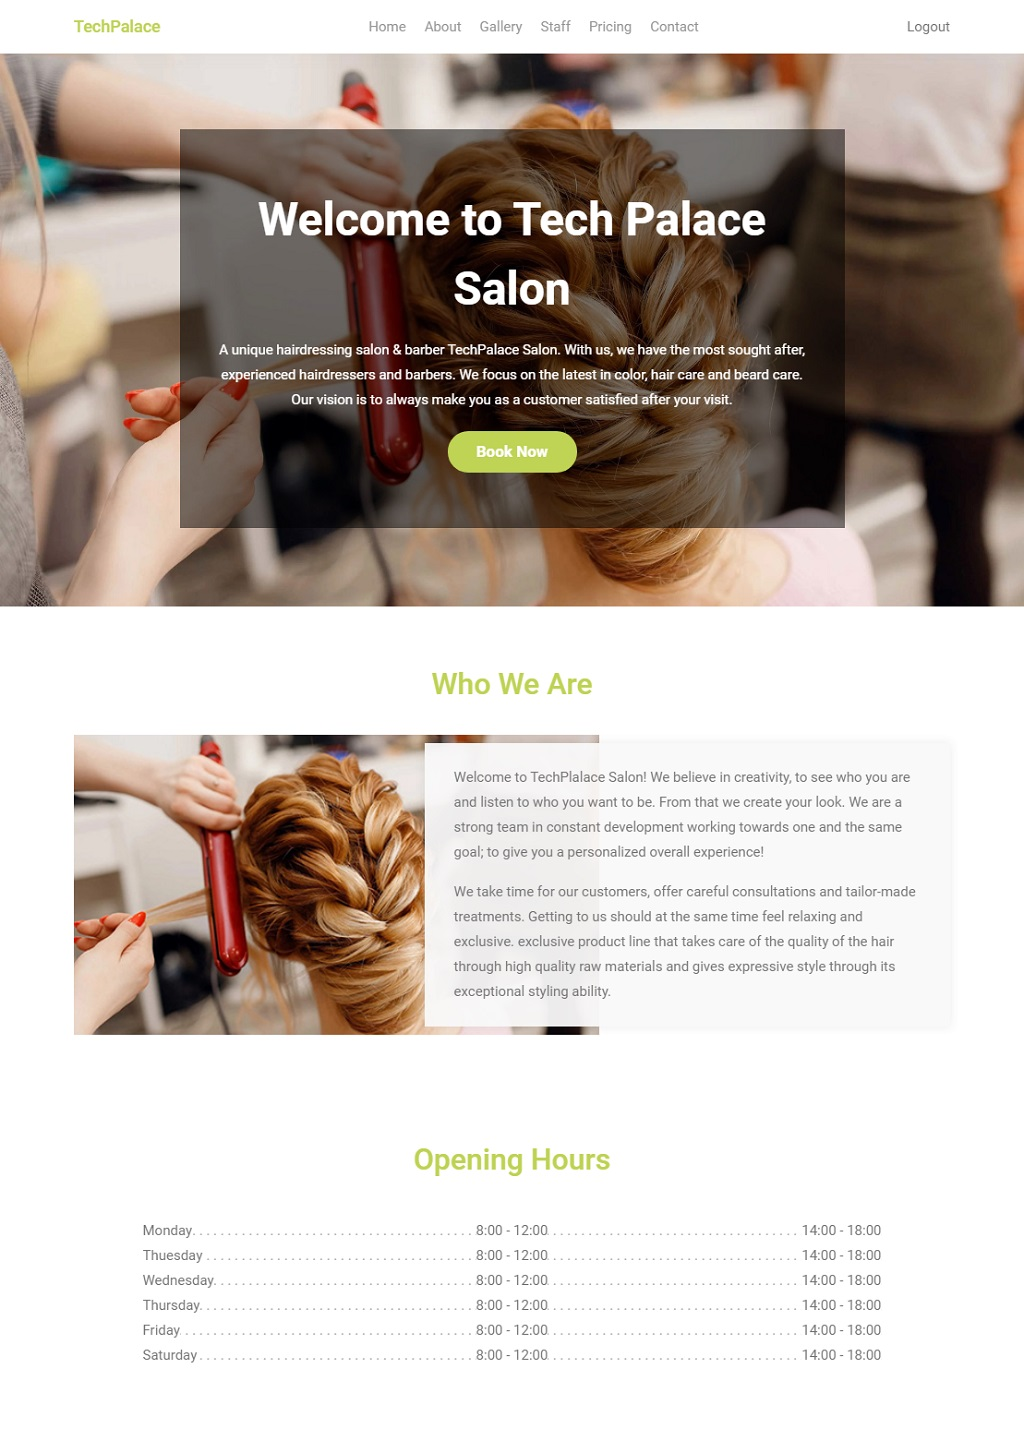
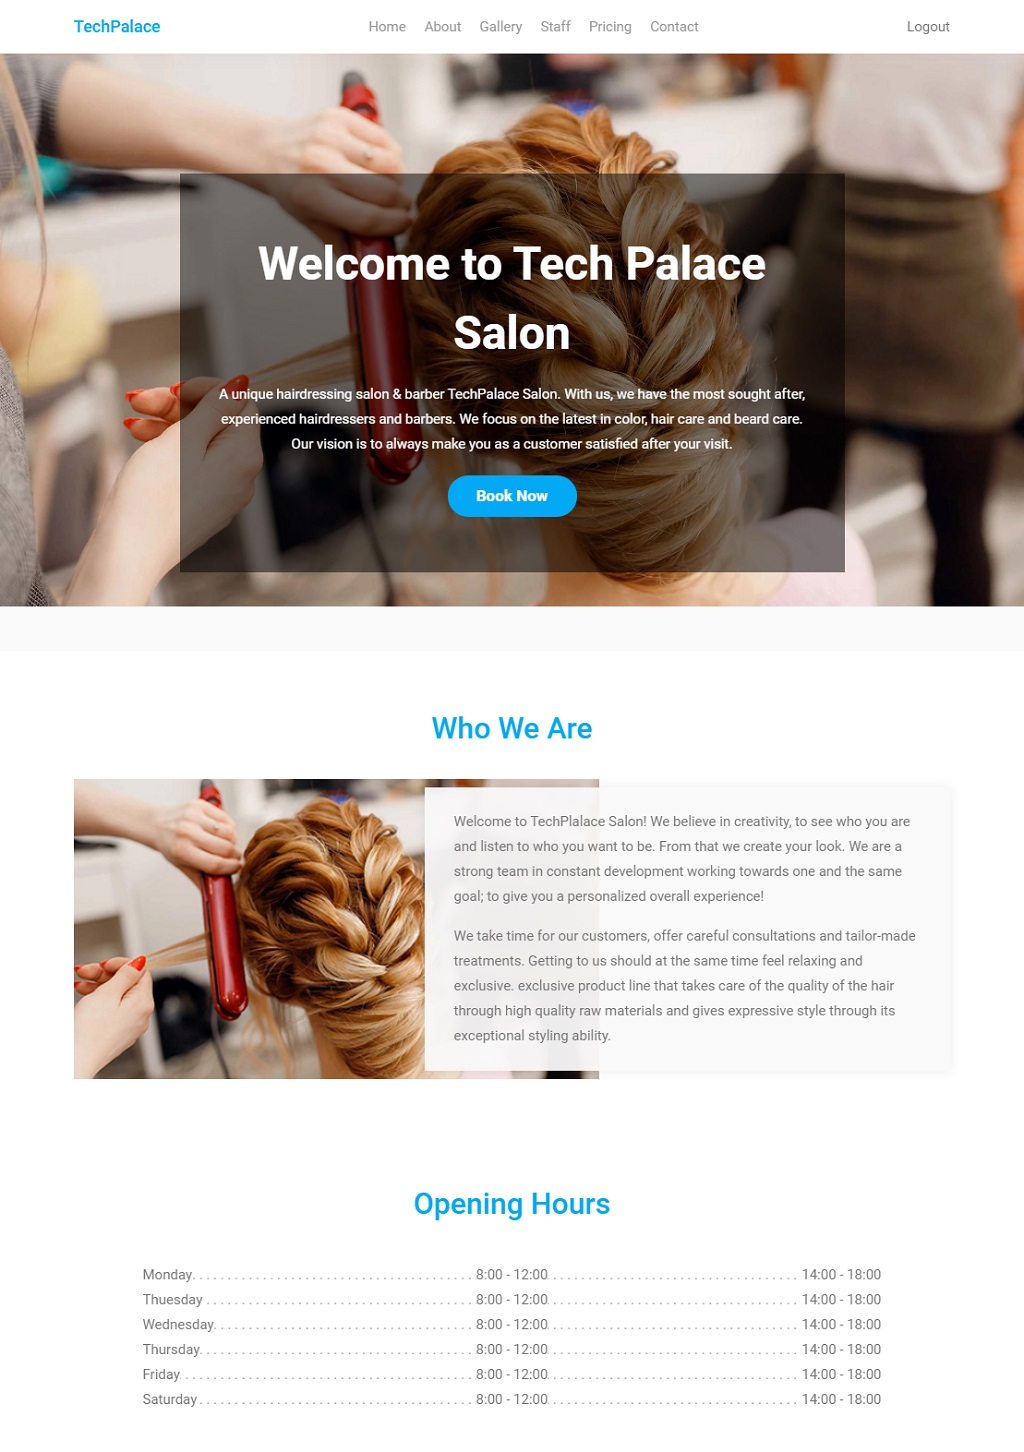
Adding update theme functionality and popup

diff --git a/src/components/landingpage/ColorBox.vue b/src/components/landingpage/ColorBox.vue
@@ -1,123 +1,158 @@
 <template>
   <div class="colorbox">
-    <div class="colorbox-toggle" @click="dialog = !dialog">
+    <div class="colorbox-toggle" @click="dialog.open = true">
       <i class="material-icons settings">settings</i>
     </div>
-    <v-dialog v-model="dialog" fullscreen hide-overlay transition="dialog-bottom-transition">
-      <template v-slot:activator="{ on }">
-        <v-btn color="primary" dark v-on="on">Open Dialog</v-btn>
-      </template>
-      <v-card>
-        <v-toolbar dark color="primary">
-          <v-btn icon dark @click="dialog = false">
-            <v-icon>close</v-icon>
-          </v-btn>
-          <v-toolbar-title>Settings</v-toolbar-title>
-          <v-spacer></v-spacer>
-          <v-toolbar-items>
-            <v-btn dark flat @click="updateTheme">Save</v-btn>
-          </v-toolbar-items>
-        </v-toolbar>
-        <v-list three-line subheader>
-          <v-subheader>Choose theme:</v-subheader>
-          <v-list-tile avatar>
-            <v-list-tile-content>
-              <v-list-tile-title>How that works?</v-list-tile-title>
-              <v-list-tile-sub-title>Choose one of the folllowing themes, then click save to apply the new theme!</v-list-tile-sub-title>
-            </v-list-tile-content>
-          </v-list-tile>
-
-          <div class="theme-preview">
-            <ul class="themes">
-              <li
-                v-for="(theme, index) in themes"
-                :key="index"
-                :style="{background: theme.color}"
-                @click="currentTheme = index + 1"
-              ></li>
-            </ul>
-            <img :src="'/img/theme' + currentTheme +'.jpg'" alt>
+    <div class="dialog" :class="dialog.open ? 'open': ''">
+      <header>
+        <div class="container">
+          <h2>Update Theme</h2>
+          <div class="controls">
+            <button class="btn" @click="updateTheme">Save</button>
+            <button class="btn" @click="dialog.open = false">Close</button>
           </div>
-        </v-list>
-      </v-card>
-    </v-dialog>
+        </div>
+      </header>
+      <div class="content">
+        <div class="theme-preview">
+          <p>Choose one of the following themes, then click save.</p>
+          <ul class="themes">
+            <li
+              v-for="(theme, index) in themes"
+              :key="index"
+              :style="{background: theme.color}"
+              @click="currentTheme = index + 1"
+            ></li>
+          </ul>
+          <img :src="'/img/theme' + currentTheme +'.jpg'" alt />
+        </div>
+      </div>
+    </div>
   </div>
 </template>
 
 <script>
 export default {
+  props: ['salon'],
   data() {
     return {
       themes: [
-        { id: 1, color: "#bfd354" },
-        { id: 2, color: "#8bc34a" },
-        { id: 3, color: "#4caf50" },
-        { id: 4, color: "#5ec0ea" },
-        { id: 5, color: "#03a9f4" },
-        { id: 6, color: "#3f51b5" },
-        { id: 7, color: "#673ab7" },
-        { id: 8, color: "#9c27b0" },
-        { id: 9, color: "#f44336" }
+        { id: 1, color: "#8bc34a" },
+        { id: 2, color: "#4caf50" },
+        { id: 3, color: "#2196f3" },
+        { id: 4, color: "#673ab7" },
+        { id: 5, color: "#9c27b0" },
+        { id: 6, color: "#f44336" }
       ],
       currentTheme: 1,
-      dialog: false,
+      dialog: {
+        open: false
+      },
       notifications: false,
       sound: true,
       widgets: false
     };
   },
   methods: {
-    updateTheme(){
-      const theme = this.currentTheme
+    async updateTheme() {
+      const theme = this.currentTheme;
       const salon = {
         frontend_opts: {
-          theme
+          theme: this.currentTheme,
+          heading: this.salon.frontend_opts.heading,
+          sub_heading: this.salon.frontend_opts.sub_heading,
+          about: this.salon.frontend_opts.about,
+          gallery_description: this.salon.frontend_opts.gallery_description,
+          logo: this.salon.frontend_opts.logo,
+          hasDomain: this.salon.frontend_opts.hasDomain,
+          createDomain: this.salon.frontend_opts.createDomain,
+          existingDomain: this.salon.frontend_opts.existingDomain,
+          desiredDomain: this.salon.frontend_opts.desiredDomain
         }
-      }
-      this.$store.dispatch('updateSalon', salon)
-      console.log(salon)
-      // dialog = false
+      };
+      await this.$store.dispatch("updateSalon", salon);
+      await this.$store.dispatch("getSalon");
+      this.dialog.open = false
     }
-  },
+  }
 };
 </script>
 
 <style lang="scss">
 @import "@/assets/scss/_variables.scss";
-.colorbox-toggle {
-  position: fixed;
-  top: calc(50% - 44px);
-  left: 0;
-  background-color: #8BC34A;
-  height: 32px;
-  width: 32px;
-  z-index: 3;
-  display: flex;
-  justify-content: center;
-  align-items: center;
-  color: #607d8b;
-  cursor: pointer;
-  .settings {
-    font-size: 20px;
-  }
-}
-.themes {
-  margin-bottom: 20px;
-  li {
-    width: 20px;
-    height: 20px;
-    display: inline-block;
+.colorbox {
+  .colorbox-toggle {
+    position: fixed;
+    top: calc(50% - 44px);
+    left: 0;
+    background-color: #8bc34a;
+    height: 32px;
+    width: 32px;
+    z-index: 3;
+    display: flex;
+    justify-content: center;
+    align-items: center;
+    color: #607d8b;
     cursor: pointer;
-    &:not(:last-child) {
-      margin-right: 5px;
+    .settings {
+      font-size: 16px;
     }
   }
-}
-.theme-preview {
-  padding: 14px;
-  img {
-    width: 420px;
-    max-width: 100%;
+  .dialog {
+    background-color: #fff;
+    display: none;
+    &.open {
+      display: block;
+    }
+    header {
+      padding: 10px 0;
+      background-color: #8bc34a;
+      .container {
+        padding: 16px 32px;
+        display: flex;
+        justify-content: space-between;
+        align-items: center;
+      }
+      h2 {
+        color: #fff;
+        text-transform: uppercase;
+        font-size: 15px;
+        letter-spacing: 1px;
+      }
+      .btn {
+        background-color: rgba(255, 255, 255, 0.2);
+        padding: 10px 20px;
+        text-transform: uppercase;
+        font-size: 12px;
+        font-weight: bold;
+        letter-spacing: 1px;
+        margin-left: 10px;
+      }
+    }
+  }
+  .themes {
+    margin-bottom: 20px;
+    li {
+      width: 20px;
+      height: 20px;
+      display: inline-block;
+      cursor: pointer;
+      &:not(:last-child) {
+        margin-right: 5px;
+      }
+    }
+  }
+  .theme-preview {
+    padding: 14px;
+    p {
+      font-weight: 400;
+      color: #607d8b;
+      margin: 20px 0;
+    }
+    img {
+      width: 420px;
+      max-width: 100%;
+    }
   }
 }
 </style>

diff --git a/src/views/Dashboard.vue b/src/views/Dashboard.vue
@@ -1,6 +1,6 @@
 <template>
   <main v-if="salon">
-    <ColorBox />
+    <ColorBox :salon="salon" />
     <Banner
       :salon="salon"
       :allowEdit="true"
@@ -173,14 +173,20 @@ export default {
         frontend_opts: {
           heading: this.heading
             ? this.heading
-            : this.salon.frontend_opts.sub_heading,
+            : this.salon.frontend_opts.heading,
           sub_heading: this.sub_heading
             ? this.sub_heading
             : this.salon.frontend_opts.sub_heading,
           about: this.about ? this.about : this.salon.frontend_opts.about,
           gallery_description: this.gallery_description
             ? this.gallery_description
-            : this.salon.frontend_opts.gallery_description
+            : this.salon.frontend_opts.gallery_description,
+          theme: this.salon.frontend_opts.theme,
+          logo: this.salon.frontend_opts.logo,
+          hasDomain: this.salon.frontend_opts.hasDomain,
+          createDomain: this.salon.frontend_opts.createDomain,
+          existingDomain: this.salon.frontend_opts.existingDomain,
+          desiredDomain: this.salon.frontend_opts.desiredDomain
         }
       };
       try {

diff --git a/src/components/landingpage/Gallery.vue b/src/components/landingpage/Gallery.vue
@@ -4,7 +4,7 @@
       <h2>Our Gallery</h2>
       <p>
         <i class="material-icons edit" v-if="allowEdit" @click="$emit('updateGalleryDescription')">edit</i>
-        {{ description }}
+        {{ description || '--'}}
       </p>
       <div class="images">
         <i class="material-icons add" v-if="allowEdit">add</i>

diff --git a/src/views/LandingPage.vue b/src/views/LandingPage.vue
@@ -21,7 +21,7 @@ export default {
     }
   },
   created(){
-    const id = "474d5ed9-a4cb-4aed-8bef-e47ccf1da83b"
+    const id = "f9e63d95-8e84-4ca6-bb3d-b8e8e784b6d5"
     this.$store.dispatch('getSalonPublic', id)
   },
 }

diff --git a/src/components/landingpage/Products.vue b/src/components/landingpage/Products.vue
@@ -37,6 +37,7 @@ export default {
   .grid {
     position: relative;
     flex-wrap: wrap;
+    justify-content: flex-start;
     .col {
       position: relative;
       flex-basis: 25%;
